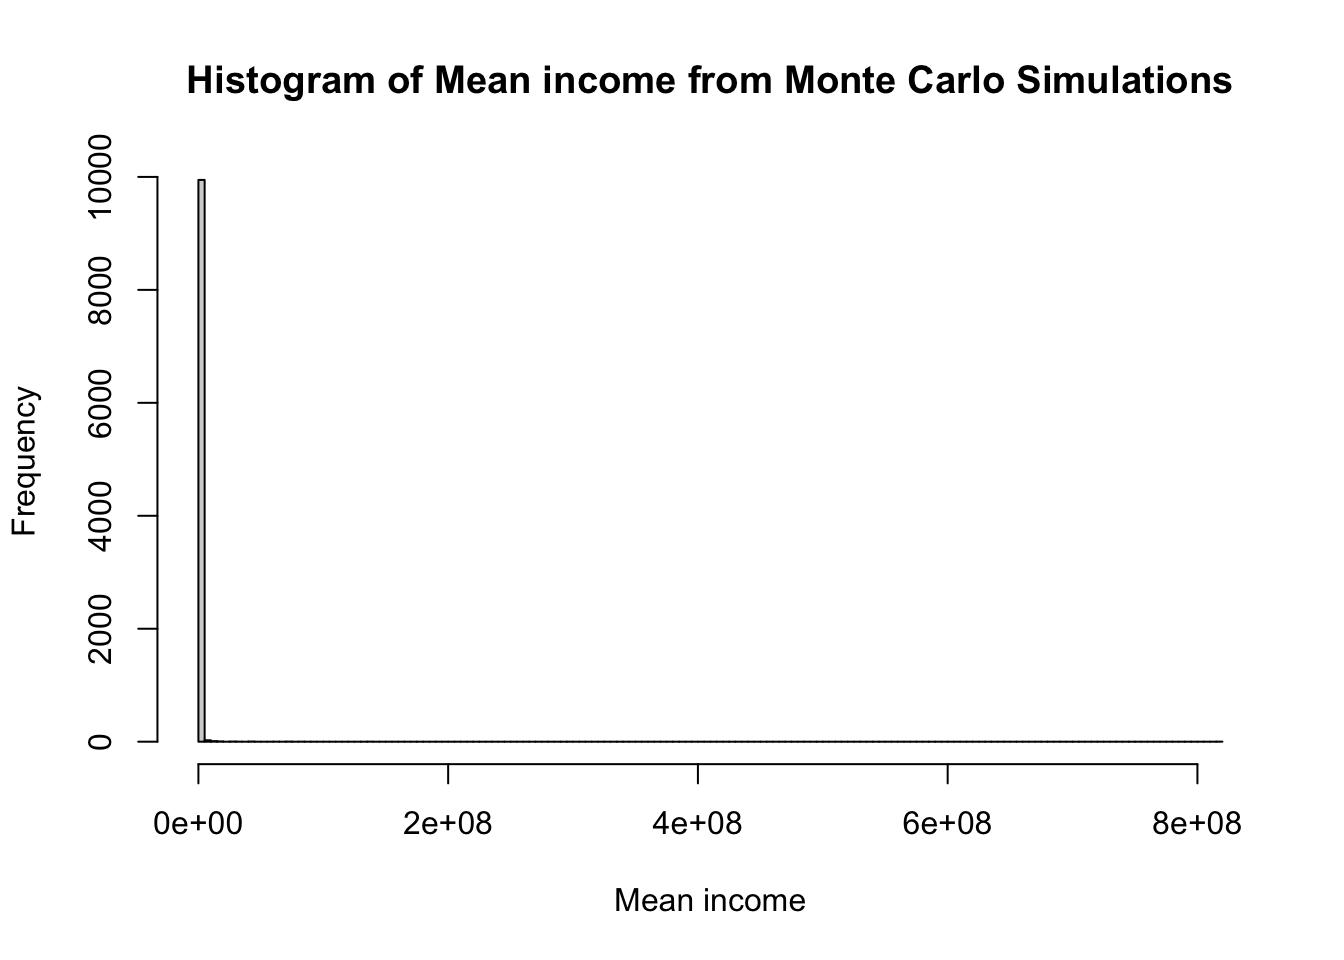
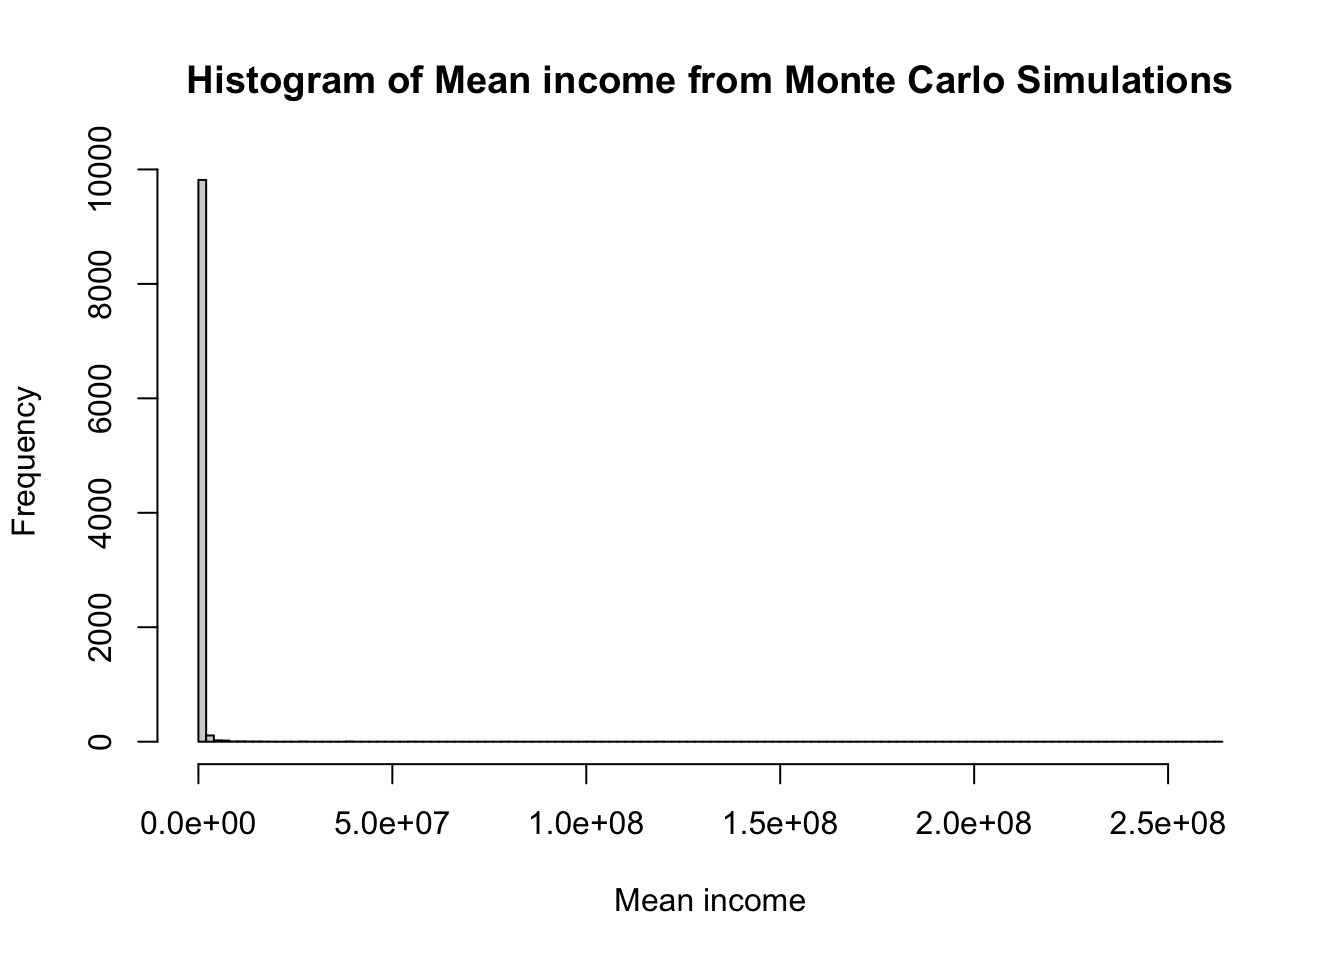
712244

diff --git a/docs/posts.html b/docs/posts.html
@@ -1797,7 +1797,7 @@ window.Quarto = {
   </ul></li>
   </ul>
 </nav>
-    <h5 class="quarto-listing-category-title">Categories</h5><div class="quarto-listing-category category-default"><div class="category" data-category="">All <span class="quarto-category-count">(6)</span></div><div class="category" data-category="TW9udGUlMjBDYXJsbyUyMHNpbXVsYXRpb24=">Monte Carlo simulation <span class="quarto-category-count">(1)</span></div><div class="category" data-category="YXJ0">art <span class="quarto-category-count">(1)</span></div><div class="category" data-category="ZWNvbm9taWNz">economics <span class="quarto-category-count">(1)</span></div><div class="category" data-category="ZXY=">ev <span class="quarto-category-count">(1)</span></div><div class="category" data-category="cGhpbG9zb3BoeQ==">philosophy <span class="quarto-category-count">(2)</span></div><div class="category" data-category="c2NpZW5jZQ==">science <span class="quarto-category-count">(1)</span></div><div class="category" data-category="dGVjaG5vbG9neQ==">technology <span class="quarto-category-count">(2)</span></div></div></div>
+    <h5 class="quarto-listing-category-title">Categories</h5><div class="quarto-listing-category category-default"><div class="category" data-category="">All <span class="quarto-category-count">(6)</span></div><div class="category" data-category="TW9udGUlMjBDYXJsbyUyMHNpbXVsYXRpb24=">Monte Carlo simulation <span class="quarto-category-count">(1)</span></div><div class="category" data-category="YXJ0">art <span class="quarto-category-count">(1)</span></div><div class="category" data-category="ZWNvbm9taWNz">economics <span class="quarto-category-count">(1)</span></div><div class="category" data-category="ZXY=">ev <span class="quarto-category-count">(1)</span></div><div class="category" data-category="bWVkaWNpbmU=">medicine <span class="quarto-category-count">(1)</span></div><div class="category" data-category="cGhpbG9zb3BoeQ==">philosophy <span class="quarto-category-count">(2)</span></div><div class="category" data-category="c2NpZW5jZQ==">science <span class="quarto-category-count">(1)</span></div><div class="category" data-category="dGVjaG5vbG9neQ==">technology <span class="quarto-category-count">(2)</span></div></div></div>
 <!-- main -->
 <main class="content" id="quarto-document-content">
 
@@ -1946,7 +1946,7 @@ Categories
 <span class="listing-categories">art</span>
 </td>
 </tr>
-<tr data-index="3" data-listing-date-sort="1733509800000" data-listing-file-modified-sort="1733589182173" data-listing-date-modified-sort="NaN" data-listing-reading-time-sort="8" data-listing-word-count-sort="1447" data-listing-title-sort="Problem of life span and strength" data-listing-filename-sort="Fragility.qmd">
+<tr data-index="3" data-categories="bWVkaWNpbmU=" data-listing-date-sort="1733509800000" data-listing-file-modified-sort="1733589625994" data-listing-date-modified-sort="NaN" data-listing-reading-time-sort="8" data-listing-word-count-sort="1447" data-listing-title-sort="Problem of life span and strength" data-listing-filename-sort="Fragility.qmd">
 <td>
 <span class="listing-date">Dec 7, 2024</span>
 </td>
@@ -1957,7 +1957,7 @@ Categories
 <span class="listing-reading-time">8 min</span>
 </td>
 <td>
-<span class="listing-categories">&nbsp;</span>
+<span class="listing-categories">medicine</span>
 </td>
 </tr>
 <tr data-index="4" data-categories="cGhpbG9zb3BoeSUyQ3RlY2hub2xvZ3k=" data-listing-date-sort="1722364200000" data-listing-file-modified-sort="1725207503106" data-listing-date-modified-sort="NaN" data-listing-reading-time-sort="4" data-listing-word-count-sort="799" data-listing-title-sort="Through Windows to open world" data-listing-filename-sort="mint.qmd">

diff --git a/docs/posts/Fragility.html b/docs/posts/Fragility.html
@@ -6,6 +6,7 @@
 
 <meta name="viewport" content="width=device-width, initial-scale=1.0, user-scalable=yes">
 
+<meta name="author" content="Kishore Puthezhath">
 <meta name="dcterms.date" content="2024-12-07">
 
 <title>Problem of life span and strength – knotes</title>
@@ -1781,12 +1782,21 @@ cookieconsent.run({
 <header id="title-block-header" class="quarto-title-block default"><nav class="quarto-page-breadcrumbs quarto-title-breadcrumbs d-none d-lg-block" aria-label="breadcrumb"><ol class="breadcrumb"><li class="breadcrumb-item">Blog</li><li class="breadcrumb-item"><a href="../posts/EV battery.html">Posts</a></li><li class="breadcrumb-item"><a href="../posts/Fragility.html">Problem of life span and strength</a></li></ol></nav>
 <div class="quarto-title">
 <h1 class="title">Problem of life span and strength</h1>
-</div>
+  <div class="quarto-categories">
+    <div class="quarto-category">medicine</div>
+  </div>
+  </div>
 
 
 
 <div class="quarto-title-meta">
 
+    <div>
+    <div class="quarto-title-meta-heading">Author</div>
+    <div class="quarto-title-meta-contents">
+             <p>Kishore Puthezhath </p>
+          </div>
+  </div>
     
     <div>
     <div class="quarto-title-meta-heading">Published</div>

diff --git a/docs/posts/montecarlo.html b/docs/posts/montecarlo.html
@@ -1977,7 +1977,7 @@ Income distribution is not normal
 </details>
 <div class="cell-output cell-output-stdout">
 <pre><code>     Min.   1st Qu.    Median      Mean   3rd Qu.      Max. 
-   212981    295015    341792    619347    433990 815263745 </code></pre>
+   209203    295454    343293    571651    435488 262332184 </code></pre>
 </div>
 <details open="" class="code-fold">
 <summary>Code</summary>
@@ -1985,7 +1985,7 @@ Income distribution is not normal
 </details>
 <div class="cell-output cell-output-stdout">
 <pre><code>   Min. 1st Qu.  Median    Mean 3rd Qu.    Max. 
-  61951   64083   64493   64508   64922   66913 </code></pre>
+  62341   64070   64510   64512   64944   67054 </code></pre>
 </div>
 <details open="" class="code-fold">
 <summary>Code</summary>
@@ -1993,7 +1993,7 @@ Income distribution is not normal
 </details>
 <div class="cell-output cell-output-stdout">
 <pre><code>     Min.   1st Qu.    Median      Mean   3rd Qu.      Max. 
-9.355e+05 3.286e+06 5.535e+06 3.255e+07 1.161e+07 8.149e+10 </code></pre>
+9.014e+05 3.267e+06 5.639e+06 2.780e+07 1.186e+07 2.621e+10 </code></pre>
 </div>
 </div>
 </section>

diff --git a/docs/Biomedical/Research Methodology/wrangling.html b/docs/Biomedical/Research Methodology/wrangling.html
@@ -3271,11 +3271,11 @@ Record
 <div class="cell-output cell-output-stdout">
 <pre><code>     age   sex  class
    &lt;int&gt; &lt;int&gt; &lt;fctr&gt;
-1:     1     1  child
-2:     2     1  child
-3:     3     1  child
-4:     4     1  child
-5:     5     1  child
+1:     1     0  child
+2:     2     0  child
+3:     3     0  child
+4:     4     0  child
+5:     5     0  child
 6:     6     1  child</code></pre>
 </div>
 </div>
@@ -3294,11 +3294,11 @@ Record
 <pre><code>Key: &lt;age&gt;
      age      0      1
    &lt;int&gt; &lt;fctr&gt; &lt;fctr&gt;
-1:     1   &lt;NA&gt;  child
-2:     2   &lt;NA&gt;  child
-3:     3   &lt;NA&gt;  child
-4:     4   &lt;NA&gt;  child
-5:     5   &lt;NA&gt;  child
+1:     1  child   &lt;NA&gt;
+2:     2  child   &lt;NA&gt;
+3:     3  child   &lt;NA&gt;
+4:     4  child   &lt;NA&gt;
+5:     5  child   &lt;NA&gt;
 6:     6   &lt;NA&gt;  child</code></pre>
 </div>
 </div>
